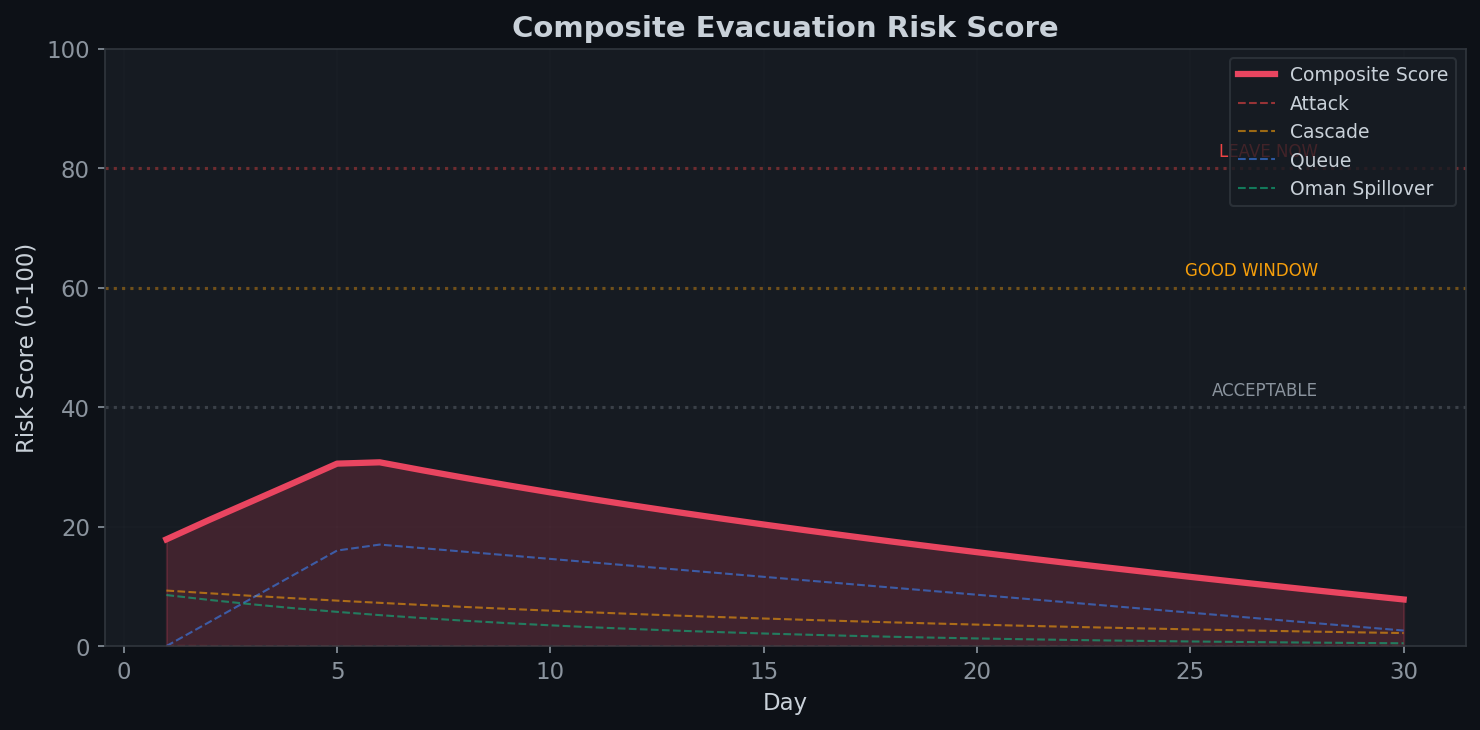
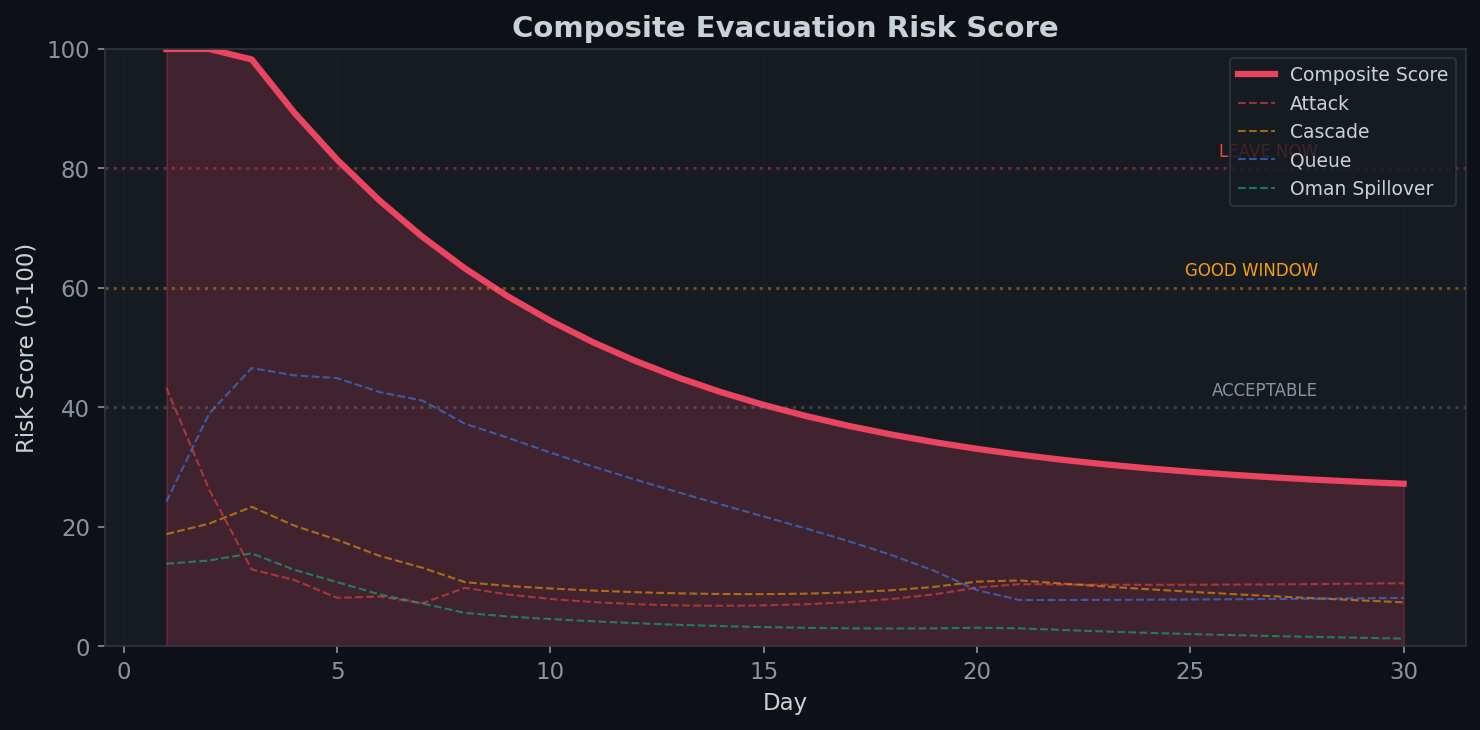
update

Changed region(s): [[0.0932, 0.0603, 0.9635, 0.874], [0.2176, 0.7233, 0.2486, 0.7534], [0.1554, 0.7534, 0.1865, 0.7836]]

diff --git a/README.md b/README.md
@@ -67,7 +67,7 @@ Transit passengers and tourists depart almost immediately (>90% by Day 20). Shor
 
 ### 7. Evacuation Risk Score Peaks Early, Decays Rapidly
 
-The composite risk score starts near 30 and peaks around Day 5–6 as airport queues build, then decays as attack intensity subsides and airport capacity recovers. The optimal departure window is **Days 1–5** (score above 25). By Day 15, the score drops below 15.
+The composite risk score starts at ~100 on Day 1 (LEAVE IMMEDIATELY), crosses below 80 by Day 3, and below 60 ("good window" closing) by Day 6. By Day 10 it reaches ~45 (ACCEPTABLE but risky), and settles near 27 by Day 30. The dominant early driver is the airport queue bottleneck (capacity at 0–15% of normal), followed by attack intensity and cascade tail risk.
 
 ![Composite Evacuation Risk Score](assets/risk_score.png)
 

diff --git a/SUMMARY.md b/SUMMARY.md
@@ -20,4 +20,4 @@
 ## Reference
 
 * [Calibration Notes](reference/calibration.md)
-* [Bibliography](reference/bibliography.md)
+* [Reference](reference/bibliography.md)

diff --git a/reference/bibliography.md b/reference/bibliography.md
@@ -1,4 +1,4 @@
-# Bibliography
+# Reference
 
 ## Core Framework
 
